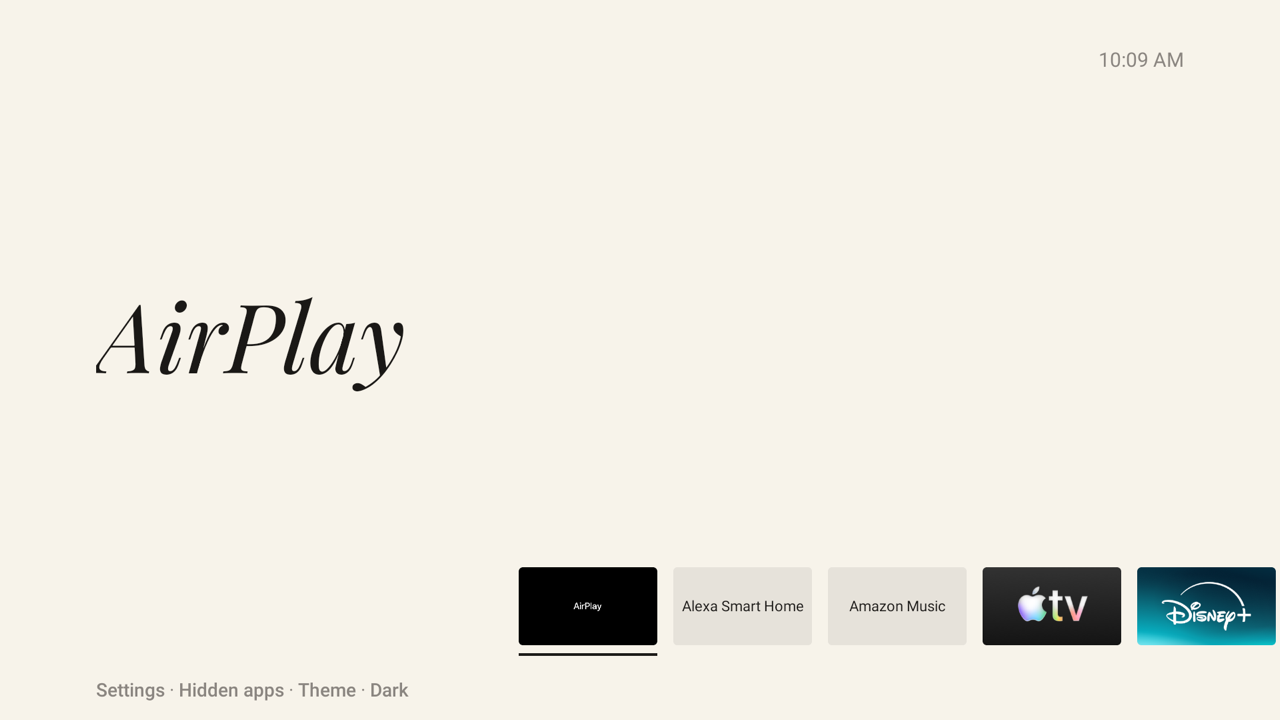
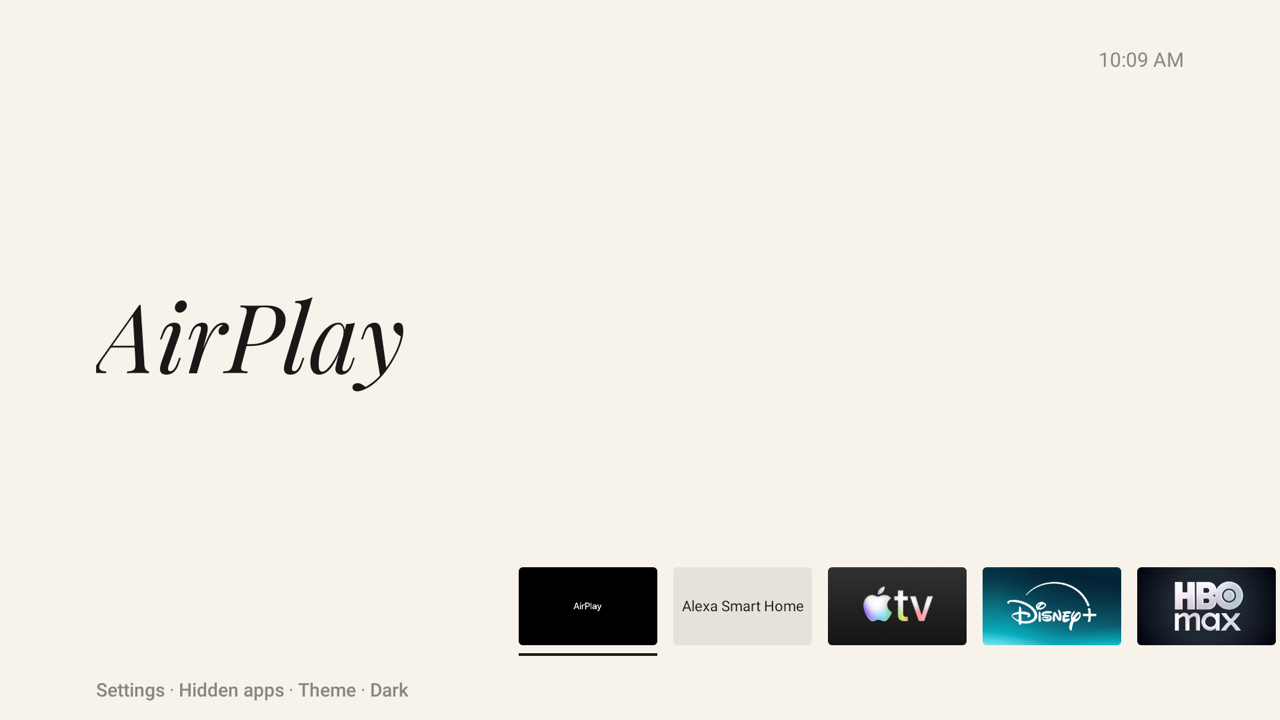
Add GIFs and Game Queen's Light look to the README
tests/device/record-gifs.sh records a tour of every theme and the hold-OK
menu on the TV with the devicetest build, and shoots each theme that starts
Dark in its Light look. publish-screenshots.sh gives such a theme a table
row of its own, Dark beside Light. The home screenshots are retaken from a
passing navigate run, so they show the same favorites as the GIFs.

Changed region(s): [[0.625, 0.7639, 1.0, 0.9167]]

diff --git a/README.md b/README.md
@@ -2,6 +2,8 @@
 
 A replacement home screen for Amazon Fire TV with no ads, sponsored rows, or autoplaying trailers: your apps and nothing else.
 
+![Moving around each theme on the TV](docs/gifs/tour.gif)
+
 ## Supported devices
 
 Tested on a TCL Fire TV (AFTDEC012E) running Fire OS 8.1.8.5 (Android 11).
@@ -131,11 +133,12 @@ Pick one from the Theme tile in Settings, or from the computer with
 
 <!-- screenshots -->
 
-|                                                                    |                                                              |
-| ------------------------------------------------------------------ | ------------------------------------------------------------ |
-| ![Dapple TV](docs/screenshots/dapple-tv.png)<br>Dapple TV          | ![Terminal](docs/screenshots/terminal.png)<br>Terminal       |
-| ![Mintendo Snitch](docs/screenshots/snitch.png)<br>Mintendo Snitch | ![Game Queen](docs/screenshots/game-queen.png)<br>Game Queen |
-| ![Ambient clock](docs/screenshots/ambient.png)<br>Ambient clock    | ![Editorial](docs/screenshots/editorial.png)<br>Editorial    |
+| | |
+| --- | --- |
+| ![Dapple TV](docs/screenshots/dapple-tv.png)<br>Dapple TV | ![Terminal](docs/screenshots/terminal.png)<br>Terminal |
+| ![Game Queen](docs/screenshots/game-queen.png)<br>Game Queen | ![Game Queen, Light](docs/screenshots/game-queen-light.png)<br>Game Queen, Light |
+| ![Mintendo Snitch](docs/screenshots/snitch.png)<br>Mintendo Snitch | ![Ambient clock](docs/screenshots/ambient.png)<br>Ambient clock |
+| ![Editorial](docs/screenshots/editorial.png)<br>Editorial | |
 
 <!-- /screenshots -->
 
@@ -148,6 +151,9 @@ Restart and Hidden apps).
 
 - Hold OK on any app to favorite, hide or uninstall it. Built-in Amazon
   apps can only be hidden; Settings > Hidden apps brings them back.
+
+  ![Holding OK on a favorite opens its menu](docs/gifs/menu.gif)
+
 - **Restart** in Settings restarts the TV at once. It goes through the
   TV's own adb, so ADB debugging must stay on. The first time, the TV asks
   to allow the launcher; tick Always allow and it never asks again.
